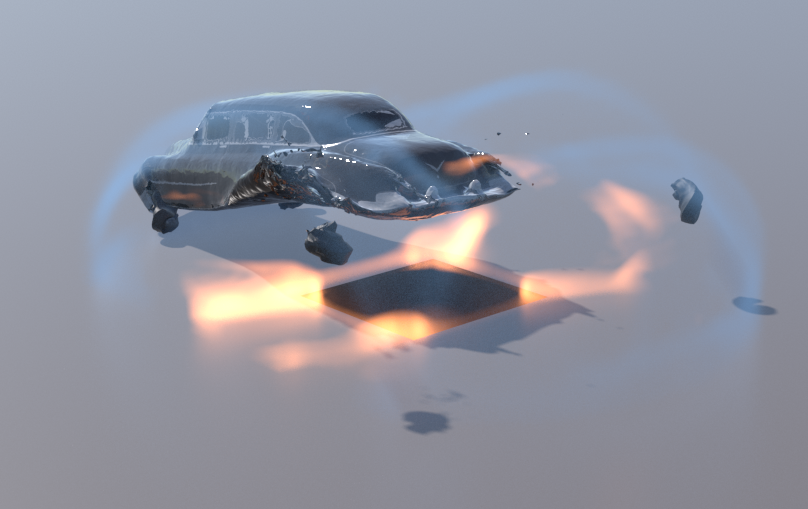
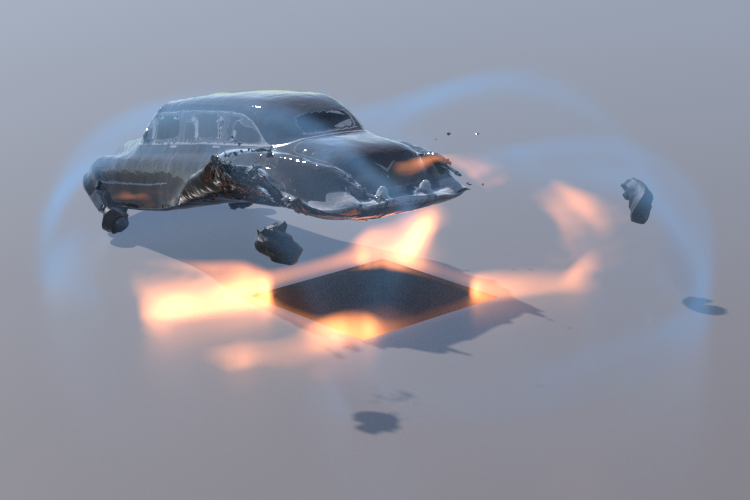
update fig size

diff --git a/_pages/publications.md b/_pages/publications.md
@@ -13,7 +13,7 @@ ACM SIGGRAPH. 2023.
 
 Links: [Paper](https://drive.google.com/uc?export=view&id=17-RZkRb8uCXQqE_VrQmoQyBmwZ-su3KS), [Supplemental Document](https://drive.google.com/uc?export=view&id=1CXreHy9jzdAzv8CFFZiJwtME_Kq3jASp), [Video](https://www.youtube.com/watch?v=z1Wc5DvC2Wk&t)
 
-<img src="http://yunuoch.github.io/images/publication/thickshell.png" alt="thickshell" width="200"/>
+<img src="http://yunuoch.github.io/images/publication/thickshell.png" alt="thickshell" width="500"/>
 
 ### A Unified Newton Barrier Method for Multibody Dynamics
 
@@ -23,7 +23,7 @@ ACM Transactions On Graphics (SIGGRAPH). 2022.
 
 Links: [Paper](https://drive.google.com/uc?export=view&id=1nZiVL6FIkI_nnCUy-209gxVXgSqZF57E), [Video](https://www.youtube.com/watch?v=sdh4Yk0SyZo)
 
-<img src="http://yunuoch.github.io/images/publication/multibody.png" alt="multibody" width="200"/>
+<img src="http://yunuoch.github.io/images/publication/multibody.png" alt="multibody" width="500"/>
 
 ### An Efficient B-Spline Lagrangian/Eulerian Method for Compressible Flow, Shock Waves, and Fracturing Solids
 
@@ -33,7 +33,7 @@ ACM Transactions On Graphics (presented at SIGGRAPH). 2022.
 
 Links: [Paper](https://drive.google.com/uc?export=view&id=1jlFb7EJbLdPjnNaIuqO-Ow0cP-Dgxgqk)
 
-<img src="http://yunuoch.github.io/images/publication/csmpm.png" alt="csmpm" width="200"/>
+<img src="http://yunuoch.github.io/images/publication/csmpm.png" alt="csmpm" width="500"/>
 
 ### AnisoMPM: Animating Anisotropic Damage Mechanics
 
@@ -43,7 +43,7 @@ ACM Transactions On Graphics (SIGGRAPH). 2020.
 
 Links: [Paper](https://www.math.ucla.edu/~cffjiang/research/wolper2020aniso/Wolper2020_AnisoMPM.pdf), [Supplemental Document](https://www.math.ucla.edu/~cffjiang/research/wolper2020aniso/Wolper2020_AnisoMPM_Supplement.pdf), [Video](https://youtu.be/eXJi7pkUZn0), [Project Page](https://joshuahwolper.com/anisompm), [Source Code](https://github.com/penn-graphics-research/ziran2020)
 
-<img src="http://yunuoch.github.io/images/publication/anisompm.png" alt="anisompm" width="200"/>
+<img src="http://yunuoch.github.io/images/publication/anisompm.png" alt="anisompm" width="500"/>
 
 ---
 <!-- {% if author.googlescholar %}

diff --git a/_pages/about.md b/_pages/about.md
@@ -7,7 +7,7 @@ redirect_from:
   - /about/
   - /about.html
 ---
-I'm a second year PhD student at the [MultiPLES](https://www.math.ucla.edu/multiples/) Lab, Department of Mathematics, University of California, Los Angeles (UCLA), advised by Prof. [Chenfanfu Jiang](https://www.math.ucla.edu/~cffjiang/). My research interests include scientific computation and its application in graphics, especially physics-based animation.
+I'm a third year PhD student at the [MultiPLES](https://www.math.ucla.edu/multiples/) Lab, Department of Mathematics, University of California, Los Angeles (UCLA), advised by Prof. [Chenfanfu Jiang](https://www.math.ucla.edu/~cffjiang/). My research interests include scientific computation and its application in graphics, especially physics-based animation.
 
 Before coming to the US, I received my Bachelor's Degree in Computational Mathematics from the School of the Gifted Young, University of Science and Technology of China (USTC) in July, 2020.
 <!-- Here is my [CV](https://yunuoch.github.io/files/yunuo_cv.pdf). -->
